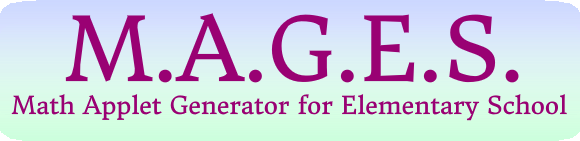
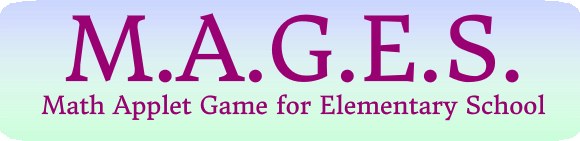
hp stuff

Changed region(s): [[0.0, 0.6525, 0.9931, 0.8511]]

diff --git a/README.md b/README.md
@@ -1,14 +1,16 @@
-# MAGES - Math Applet Generator for Elementary School
+# MAGES - Math Applet Game for Elementary School
 
 Created by Jeffrey Gordon using Javascript and [the Phaser open source HTML5 game framework](http://phaser.io).
 
 Published under a [Creative Commons Attribution 4.0 International (CC BY 4.0) License](https://creativecommons.org/licenses/by/4.0/).
 
-Mages is designed to be used as a general canvas to build math applets for HTML5-based educational software.  The current goal is to develop the widgets necessary to build a 4th grade curriculum.  Mages is currently in an alpha state, and no support for its use is offered by the author, Jeffrey Gordon.  Use it at your own risk.
+Mages is designed to be used as a general canvas to build math applets for HTML5-based educational software.  Mages is currently in an alpha state, and no support for its use is offered by the author, Jeffrey Gordon.  Use it at your own risk.
 
 This demo video shows how Mages is used to build math applets.  In it, Mages creator Jeffrey Gordon walks through the steps to create three math applets: an addition applet, a bar graph applet, and a number line applet.
 
 [![Click to watch the Mages demo build video.](http://img.youtube.com/vi/zOboDzJOdY8/0.jpg)](http://www.youtube.com/watch?v=zOboDzJOdY8)
+
+Mages is also a game.  It is a spaceship battle RPG that includes the applet challenges, guided by an adaptive algorithm.
 
 The public version of Mages is hosted [here](https://mages.firebaseapp.com/).
 
